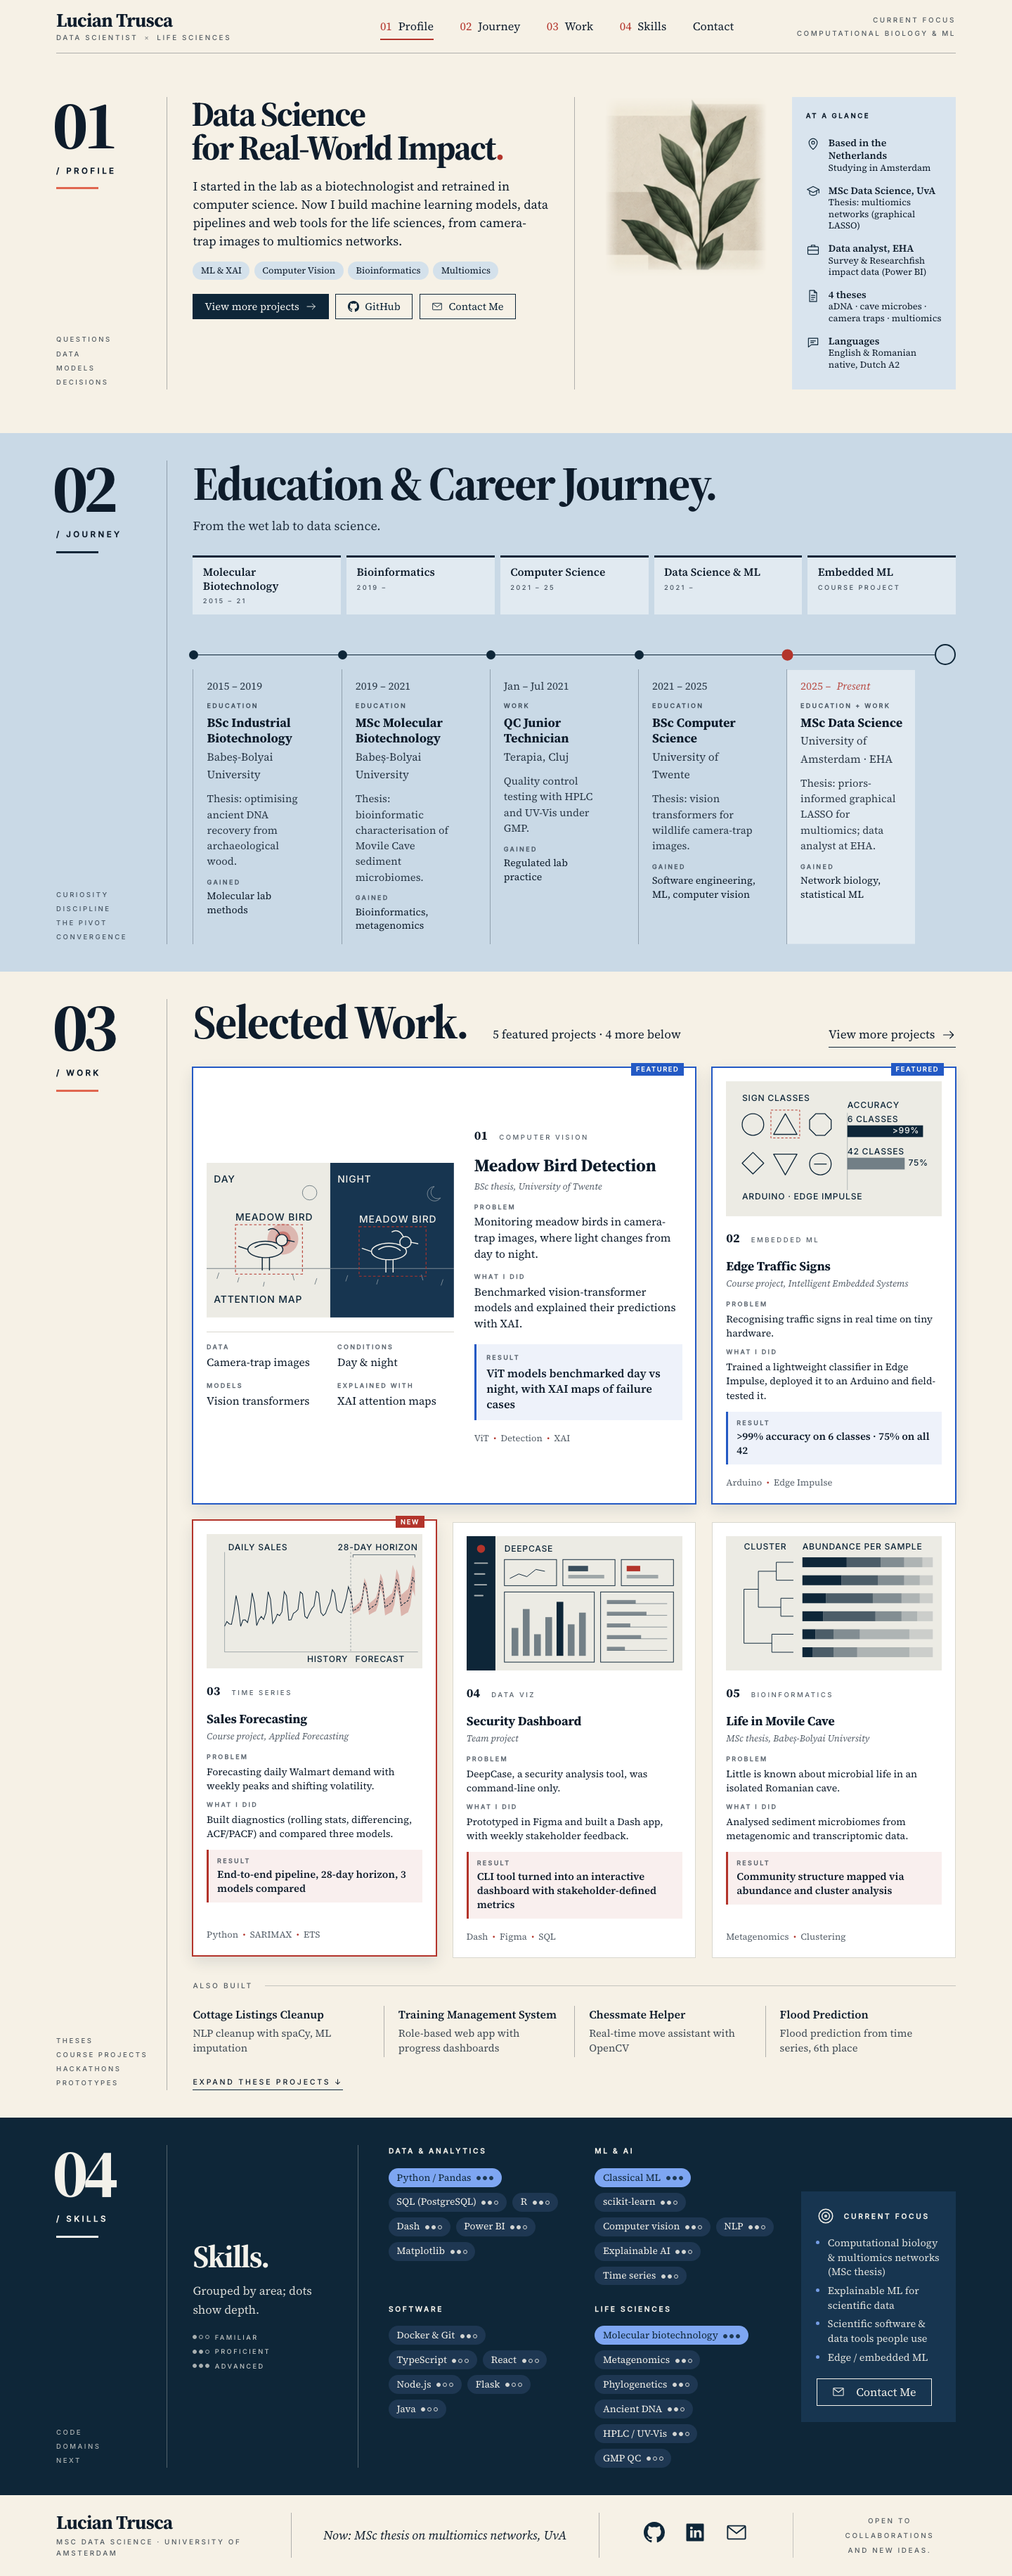
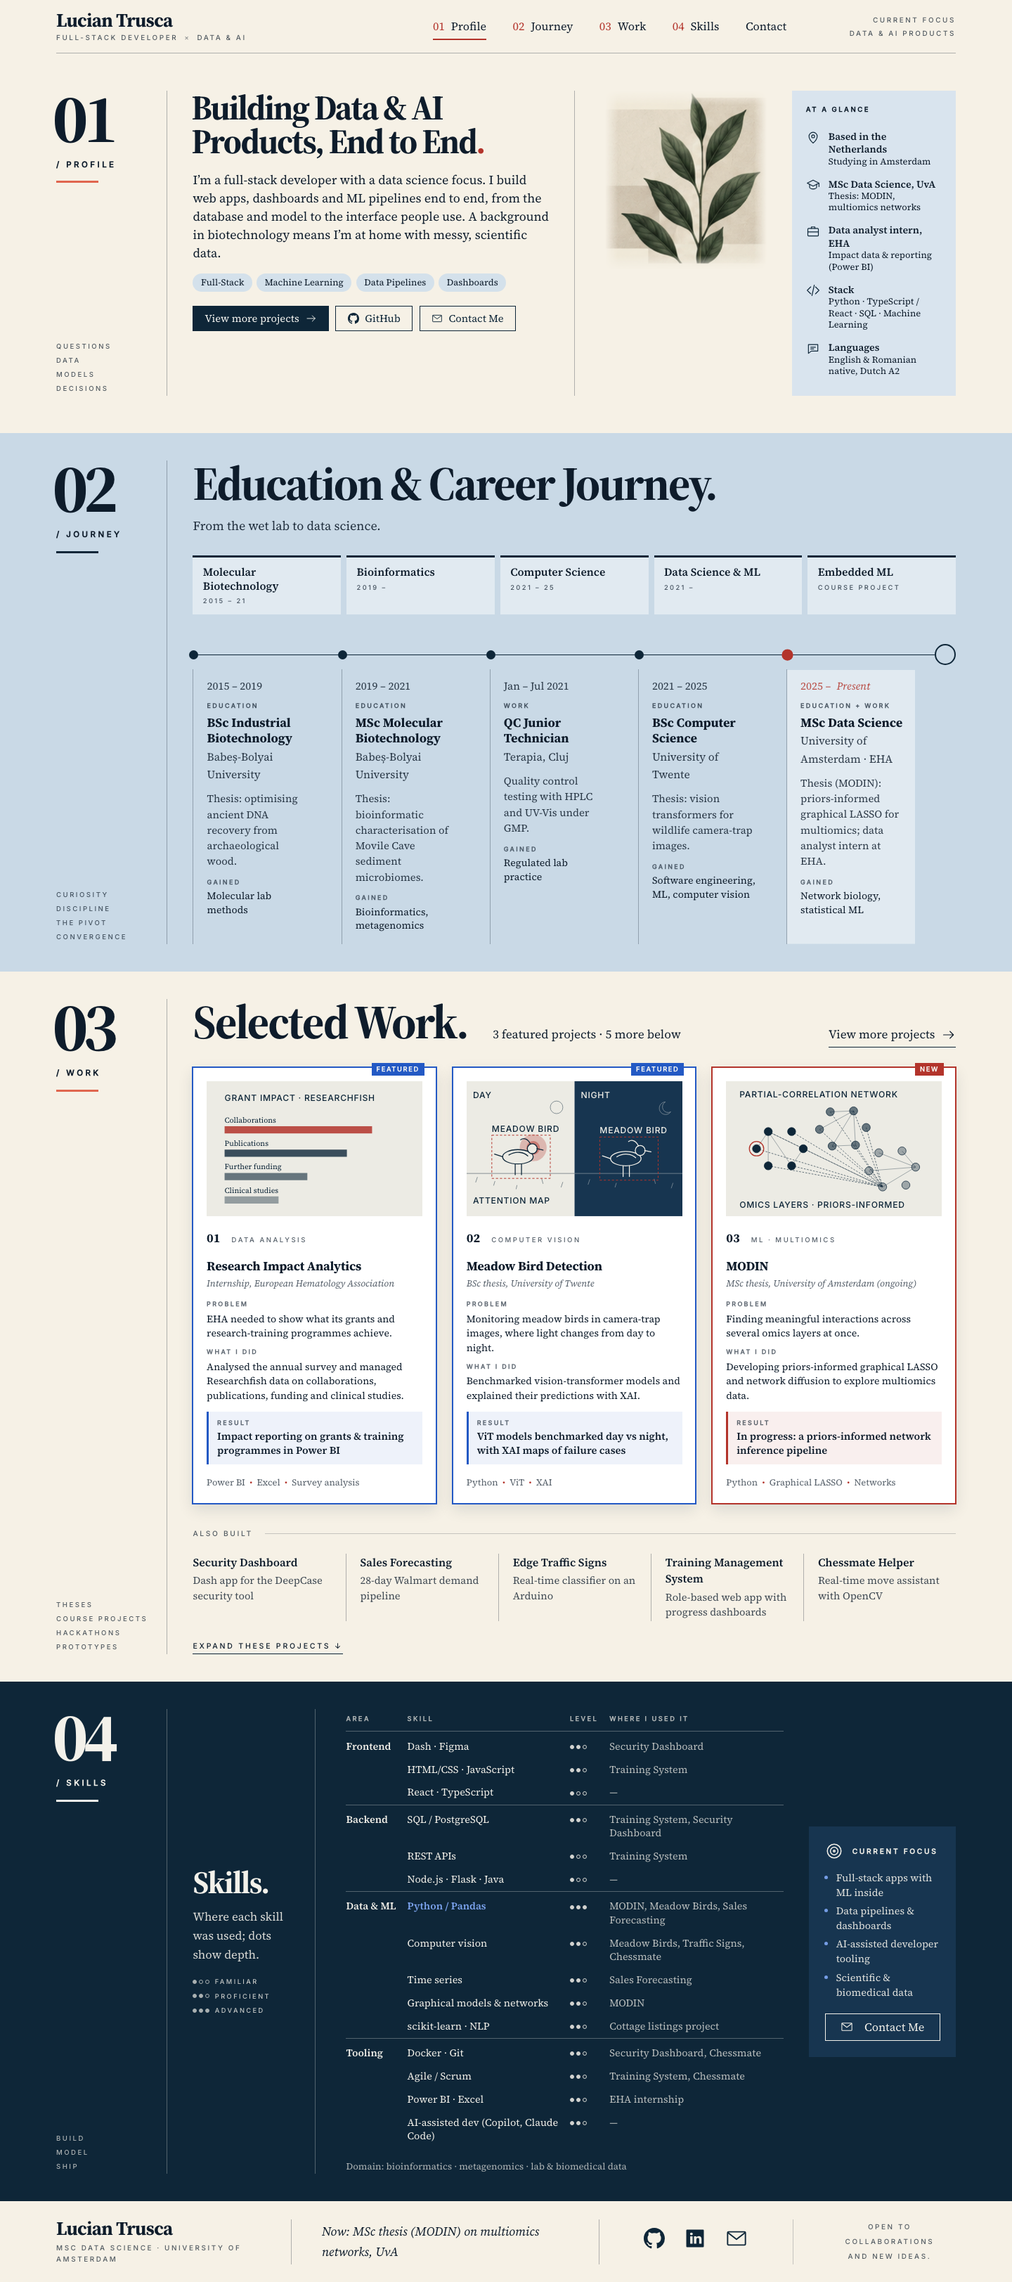
Full-stack data & AI positioning, top-three work, skills layout variants
Tagline/headline/bio reframed as full-stack developer with a data & AI
focus. Work: EHA internship + Meadow Birds featured, MODIN thesis new,
five more in Also built with evidence cards; new survey and network
figures. Skills driven by one data set with three layouts (S1 cards,
S2 columns, S3 proof table, default S3). Hero role tags + stack row in
At a glance (variant A), with B/C and S1/S2 behind a temporary ?variants
switcher; screenshots in docs/variants/.

diff --git a/src/data/site.ts b/src/data/site.ts
@@ -5,22 +5,26 @@ export const person = {
   email: 'lucianmtrusca@gmail.com',
   github: 'https://github.com/luciantrusca',
   linkedin: 'https://www.linkedin.com/in/lucian-trusca/',
-  tagline: ['Data scientist', 'Life sciences'],
-  motto: ['Current focus', 'computational biology & ML'],
+  tagline: ['Full-stack developer', 'Data & AI'],
+  motto: ['Current focus', 'data & AI products'],
 };
 
 export const profile = {
   keywords: ['Questions', 'Data', 'Models', 'Decisions'],
-  headline: ['Data Science', 'for Real-World Impact.'],
+  headline: ['Building Data & AI', 'Products, End to End.'],
   statement:
-    'I started in the lab as a biotechnologist and retrained in computer science. Now I build machine learning models, ' +
-    'data pipelines and web tools for the life sciences, from camera-trap images to multiomics networks.',
-  pills: ['ML & XAI', 'Computer Vision', 'Bioinformatics', 'Multiomics'],
+    'I’m a full-stack developer with a data science focus. I build web apps, dashboards and ML pipelines end to end, ' +
+    'from the database and model to the interface people use. A background in biotechnology means I’m at home with messy, scientific data.',
+  // tag variants (switcher: ?variants). A: role pills + stack row, B: stack pills + focus row, C: role pills + stack line
+  roleTags: ['Full-Stack', 'Machine Learning', 'Data Pipelines', 'Dashboards'],
+  stackTags: ['Python', 'TypeScript / React', 'SQL', 'Machine Learning'],
   glance: [
     { icon: 'pin', title: 'Based in the Netherlands', text: 'Studying in Amsterdam' },
-    { icon: 'cap', title: 'MSc Data Science, UvA', text: 'Thesis: multiomics networks (graphical LASSO)' },
-    { icon: 'case', title: 'Data analyst, EHA', text: 'Survey & Researchfish impact data (Power BI)' },
-    { icon: 'doc', title: '4 theses', text: 'aDNA · cave microbes · camera traps · multiomics' },
+    { icon: 'cap', title: 'MSc Data Science, UvA', text: 'Thesis: MODIN, multiomics networks' },
+    { icon: 'case', title: 'Data analyst intern, EHA', text: 'Impact data & reporting (Power BI)' },
+    { icon: 'code', title: 'Stack', text: 'Python · TypeScript / React · SQL · Machine Learning', variant: 'a' },
+    { icon: 'target', title: 'Focus', text: 'Full-stack · ML · data pipelines · dashboards', variant: 'b' },
+    { icon: 'doc', title: '4 theses', text: 'aDNA · cave microbes · camera traps · multiomics', variant: 'c' },
     { icon: 'chat', title: 'Languages', text: 'English & Romanian native, Dutch A2' },
   ],
 };
@@ -47,110 +51,110 @@ export const journey = {
     { kind: 'Education', dates: '2021 – 2025', title: 'BSc Computer Science', place: 'University of Twente',
       achievement: 'Thesis: vision transformers for wildlife camera-trap images.', gained: 'Software engineering, ML, computer vision' },
     { kind: 'Education + Work', dates: '2025 – ', now: 'Present', title: 'MSc Data Science', place: 'University of Amsterdam · EHA',
-      achievement: 'Thesis: priors-informed graphical LASSO for multiomics; data analyst at EHA.', gained: 'Network biology, statistical ML' },
+      achievement: 'Thesis (MODIN): priors-informed graphical LASSO for multiomics; data analyst intern at EHA.', gained: 'Network biology, statistical ML' },
   ],
 };
 
-export type Figure = 'birds' | 'forecast' | 'dashboard' | 'signs' | 'cave';
+export type Figure = 'birds' | 'forecast' | 'dashboard' | 'signs' | 'cave' | 'survey' | 'network';
 export type Badge = 'featured' | 'new';
 
 export const work = {
   keywords: ['Theses', 'Course projects', 'Hackathons', 'Prototypes'],
   moreProjects: 'https://github.com/luciantrusca?tab=repositories',
-  // featured first: Meadow Birds spans two columns, Traffic Signs sits beside it
+  // top three: two featured + one new; the rest sit behind "Expand these projects"
   projects: [
     {
-      badge: 'featured' as Badge, wide: true, area: 'Computer vision', figure: 'birds' as Figure, title: 'Meadow Bird Detection',
+      badge: 'featured' as Badge, area: 'Data analysis', figure: 'survey' as Figure, title: 'Research Impact Analytics',
+      role: 'Internship, European Hematology Association',
+      problem: 'EHA needed to show what its grants and research-training programmes achieve.',
+      did: 'Analysed the annual survey and managed Researchfish data on collaborations, publications, funding and clinical studies.',
+      result: 'Impact reporting on grants & training programmes in Power BI',
+      tags: ['Power BI', 'Excel', 'Survey analysis'],
+    },
+    {
+      badge: 'featured' as Badge, area: 'Computer vision', figure: 'birds' as Figure, title: 'Meadow Bird Detection',
       role: 'BSc thesis, University of Twente',
       problem: 'Monitoring meadow birds in camera-trap images, where light changes from day to night.',
       did: 'Benchmarked vision-transformer models and explained their predictions with XAI.',
       result: 'ViT models benchmarked day vs night, with XAI maps of failure cases',
-      facts: [['Data', 'Camera-trap images'], ['Conditions', 'Day & night'], ['Models', 'Vision transformers'], ['Explained with', 'XAI attention maps']],
-      tags: ['ViT', 'Detection', 'XAI'],
+      tags: ['Python', 'ViT', 'XAI'],
     },
     {
-      badge: 'featured' as Badge, area: 'Embedded ML', figure: 'signs' as Figure, title: 'Edge Traffic Signs',
-      role: 'Course project, Intelligent Embedded Systems',
-      problem: 'Recognising traffic signs in real time on tiny hardware.',
-      did: 'Trained a lightweight classifier in Edge Impulse, deployed it to an Arduino and field-tested it.',
-      result: '>99% accuracy on 6 classes · 75% on all 42',
-      tags: ['Arduino', 'Edge Impulse'],
-    },
-    {
-      badge: 'new' as Badge, area: 'Time series', figure: 'forecast' as Figure, title: 'Sales Forecasting',
-      role: 'Course project, Applied Forecasting',
-      problem: 'Forecasting daily Walmart demand with weekly peaks and shifting volatility.',
-      did: 'Built diagnostics (rolling stats, differencing, ACF/PACF) and compared three models.',
-      result: 'End-to-end pipeline, 28-day horizon, 3 models compared',
-      tags: ['Python', 'SARIMAX', 'ETS'],
-    },
-    {
-      area: 'Data viz', figure: 'dashboard' as Figure, title: 'Security Dashboard',
-      role: 'Team project',
-      problem: 'DeepCase, a security analysis tool, was command-line only.',
-      did: 'Prototyped in Figma and built a Dash app, with weekly stakeholder feedback.',
-      result: 'CLI tool turned into an interactive dashboard with stakeholder-defined metrics',
-      tags: ['Dash', 'Figma', 'SQL'],
-    },
-    {
-      area: 'Bioinformatics', figure: 'cave' as Figure, title: 'Life in Movile Cave',
-      role: 'MSc thesis, Babeș-Bolyai University',
-      problem: 'Little is known about microbial life in an isolated Romanian cave.',
-      did: 'Analysed sediment microbiomes from metagenomic and transcriptomic data.',
-      result: 'Community structure mapped via abundance and cluster analysis',
-      tags: ['Metagenomics', 'Clustering'],
+      badge: 'new' as Badge, area: 'ML · multiomics', figure: 'network' as Figure, title: 'MODIN',
+      role: 'MSc thesis, University of Amsterdam (ongoing)',
+      problem: 'Finding meaningful interactions across several omics layers at once.',
+      did: 'Developing priors-informed graphical LASSO and network diffusion to explore multiomics data.',
+      result: 'In progress: a priors-informed network inference pipeline',
+      tags: ['Python', 'Graphical LASSO', 'Networks'],
     },
   ],
-  // revealed by "See more projects"
+  // "Also built": one-line preview, expanded to evidence cards
   extra: [
-    { area: 'NLP', title: 'Cottage Listings Cleanup', text: 'NLP cleanup with spaCy, ML imputation', role: 'Data science & AI project',
-      bullets: ['Cleaned a real-world JSON dataset of listings', 'Standardised descriptions with spaCy', 'Filled missing values with ML models'],
-      tags: ['Python', 'spaCy', 'NLP'] },
+    { area: 'Full-stack · data viz', title: 'Security Dashboard', text: 'Dash app for the DeepCase security tool', role: 'Team project',
+      problem: 'DeepCase, a security analysis tool, was command-line only.',
+      did: 'Prototyped in Figma and built a Dash app, with weekly stakeholder feedback.',
+      result: 'CLI tool turned into an interactive dashboard', tags: ['Dash', 'Figma', 'SQL', 'Docker'] },
+    { area: 'Time series', title: 'Sales Forecasting', text: '28-day Walmart demand pipeline', role: 'Course project, Applied Forecasting',
+      problem: 'Forecasting daily demand with weekly peaks and shifting volatility.',
+      did: 'Built diagnostics (rolling stats, differencing, ACF/PACF) and compared three models.',
+      result: 'End-to-end pipeline, 28-day horizon, 3 models compared', tags: ['Python', 'SARIMAX', 'ETS'] },
+    { area: 'Embedded ML', title: 'Edge Traffic Signs', text: 'Real-time classifier on an Arduino', role: 'Course project, Intelligent Embedded Systems',
+      problem: 'Recognising traffic signs in real time on tiny hardware.',
+      did: 'Trained a lightweight classifier in Edge Impulse and deployed it to an Arduino.',
+      result: '>99% accuracy on 6 classes · 75% on all 42', tags: ['Arduino', 'Edge Impulse'] },
     { area: 'Web app', title: 'Training Management System', text: 'Role-based web app with progress dashboards', role: 'Course project, Data & Information',
-      bullets: ['Role-based app for admins, trainers, trainees', 'Courses, groups and progress tracking', 'Trainee dashboards with schedules'],
-      tags: ['JavaScript', 'SQL', 'REST'] },
-    { area: 'HCI', title: 'Chessmate Helper', text: 'Real-time move assistant with OpenCV', role: 'Course project, Human Computer Interaction',
-      bullets: ['AI chess assistant with real-time object detection', 'User research with players of all levels', 'Personas and feedback flows'],
-      tags: ['Python', 'OpenCV', 'Figma'] },
-    { area: 'Hackathon', title: 'Flood Prediction', text: 'Flood prediction from time series, 6th place', role: 'Cassini Hackathon', result: '6th place',
-      bullets: ['Humanitarian-focused team hackathon', 'ML flood prediction from time series', 'Presented the solution to a jury'],
-      tags: ['Python', 'ML', 'Geospatial'] },
+      problem: 'Trainers needed one place for courses, groups and trainee progress.',
+      did: 'Built a role-based web app for admins, trainers and trainees on a REST API and SQL.',
+      result: 'Course, group and progress tracking with trainee dashboards', tags: ['JavaScript', 'SQL', 'REST'] },
+    { area: 'Computer vision · HCI', title: 'Chessmate Helper', text: 'Real-time move assistant with OpenCV', role: 'Course project, Human Computer Interaction',
+      problem: 'Helping players of different levels see good moves on a physical board.',
+      did: 'Built real-time board detection with OpenCV and ran user research with players.',
+      result: 'Working prototype, shaped by personas and feedback flows', tags: ['Python', 'OpenCV', 'Figma'] },
   ],
 };
 
 export const skills = {
-  keywords: ['Code', 'Domains', 'Next'],
+  keywords: ['Build', 'Model', 'Ship'],
   title: 'Skills.',
-  subtitle: 'Grouped by area; dots show depth.',
-  // level: 1 familiar, 2 proficient, 3 advanced. `best` pills are lit by default; hovering another moves the light
-  groups: [
-    { title: 'Data & analytics', pills: [
-      { name: 'Python / Pandas', level: 3, best: true }, { name: 'SQL (PostgreSQL)', level: 2 }, { name: 'R', level: 2 },
-      { name: 'Dash', level: 2 }, { name: 'Power BI', level: 2 }, { name: 'Matplotlib', level: 2 },
+  subtitle: 'Where each skill was used; dots show depth.',
+  // One data set, three layouts (switcher: ?variants): S1 capability cards, S2 stack columns, S3 proof table.
+  // level: 1 familiar, 2 proficient, 3 advanced
+  areas: [
+    { area: 'Frontend', capability: 'Build interfaces', impact: 'Turns a script or CLI into a tool people actually use.', rows: [
+      { skill: 'Dash · Figma', level: 2, used: 'Security Dashboard' },
+      { skill: 'HTML/CSS · JavaScript', level: 2, used: 'Training System' },
+      { skill: 'React · TypeScript', level: 1, used: '' },
     ] },
-    { title: 'ML & AI', pills: [
-      { name: 'Classical ML', level: 3, best: true }, { name: 'scikit-learn', level: 2 }, { name: 'Computer vision', level: 2 },
-      { name: 'NLP', level: 2 }, { name: 'Explainable AI', level: 2 }, { name: 'Time series', level: 2 },
+    { area: 'Backend', capability: 'Build services & data', impact: 'Clean data in, reliable endpoints out.', rows: [
+      { skill: 'SQL / PostgreSQL', level: 2, used: 'Training System, Security Dashboard' },
+      { skill: 'REST APIs', level: 1, used: 'Training System' },
+      { skill: 'Node.js · Flask · Java', level: 1, used: '' },
     ] },
-    { title: 'Software', pills: [
-      { name: 'Docker & Git', level: 2 }, { name: 'TypeScript', level: 1 }, { name: 'React', level: 1 },
-      { name: 'Node.js', level: 1 }, { name: 'Flask', level: 1 }, { name: 'Java', level: 1 },
+    { area: 'Data & ML', capability: 'Model & analyse', impact: 'From raw data to a model you can evaluate and explain.', rows: [
+      { skill: 'Python / Pandas', level: 3, used: 'MODIN, Meadow Birds, Sales Forecasting', best: true },
+      { skill: 'Computer vision', level: 2, used: 'Meadow Birds, Traffic Signs, Chessmate' },
+      { skill: 'Time series', level: 2, used: 'Sales Forecasting' },
+      { skill: 'Graphical models & networks', level: 2, used: 'MODIN' },
+      { skill: 'scikit-learn · NLP', level: 2, used: 'Cottage listings project' },
     ] },
-    { title: 'Life sciences', pills: [
-      { name: 'Molecular biotechnology', level: 3, best: true }, { name: 'Metagenomics', level: 2 }, { name: 'Phylogenetics', level: 2 },
-      { name: 'Ancient DNA', level: 2 }, { name: 'HPLC / UV-Vis', level: 2 }, { name: 'GMP QC', level: 1 },
+    { area: 'Tooling', capability: 'Ship & collaborate', impact: 'Works in a team and ships reproducibly.', rows: [
+      { skill: 'Docker · Git', level: 2, used: 'Security Dashboard, Chessmate' },
+      { skill: 'Agile / Scrum', level: 2, used: 'Training System, Chessmate' },
+      { skill: 'Power BI · Excel', level: 2, used: 'EHA internship' },
+      { skill: 'AI-assisted dev (Copilot, Claude Code)', level: 2, used: '' },
     ] },
   ],
+  domain: 'Domain: bioinformatics · metagenomics · lab & biomedical data',
   focus: [
-    'Computational biology & multiomics networks (MSc thesis)',
-    'Explainable ML for scientific data',
-    'Scientific software & data tools people use',
-    'Edge / embedded ML',
+    'Full-stack apps with ML inside',
+    'Data pipelines & dashboards',
+    'AI-assisted developer tooling',
+    'Scientific & biomedical data',
   ],
 };
 
 export const footer = {
   role: 'MSc Data Science · University of Amsterdam',
-  now: 'Now: MSc thesis on multiomics networks, UvA',
+  now: 'Now: MSc thesis (MODIN) on multiomics networks, UvA',
   open: ['Open to collaborations', 'and new ideas.'],
 };

diff --git a/docs/design-brief.md b/docs/design-brief.md
@@ -148,6 +148,13 @@ Do not polish individual project descriptions before the layout exists; the wire
 
 **Revision 2 (owner feedback): the mockup's layout now wins over this brief's structural changes.** The owner found the phylogeny, asymmetric Work grid and 2/3 + 1/3 Toolkit "all over the place" and asked to follow the mockup. So: horizontal timeline, four equal project cards, title + four toolkit columns.
 
+**Revision 9 (branch `cv-fullstack`): full-stack developer with a data & AI focus.**
+- **Role copy:** tagline "Full-stack developer × Data & AI", headline "Building Data & AI Products, End to End.", and a bio that frames biotech as the domain background.
+- **Work:** a top three of equal evidence cards: EHA internship (featured), Meadow Birds (featured), MODIN MSc thesis (new, in progress). They get new `survey` and `network` figures. The "Also built" preview holds Security Dashboard, Sales Forecasting, Traffic Signs, Training System and Chessmate, and "Expand" shows them as evidence cards. Movile Cave, Cottages and Cassini left Work.
+- **Skills:** one data set (area → capability → rows of skill / level / where used) drives three layouts: S1 capability cards, S2 stack columns, and S3 proof table (the default). Life sciences is reduced to a single domain line.
+- **Tags:** A = role tags in the hero plus a Stack row in At a glance (the default); B = stack tags plus a Focus row; C = role tags plus a stack line under the buttons.
+- **Temporary switcher:** opening the page with `?variants` shows a switcher for the tag and Skills variants (screenshots in `docs/variants/`). Delete it once the owner picks.
+
 **Revision 8 (branch `cv-evidence`): evidence over editorial.**
 - **At a glance:** five factual rows, including "4 theses" and EHA's tools.
 - **Hero tags:** specific (ML & XAI, Computer Vision, Bioinformatics, Multiomics).
